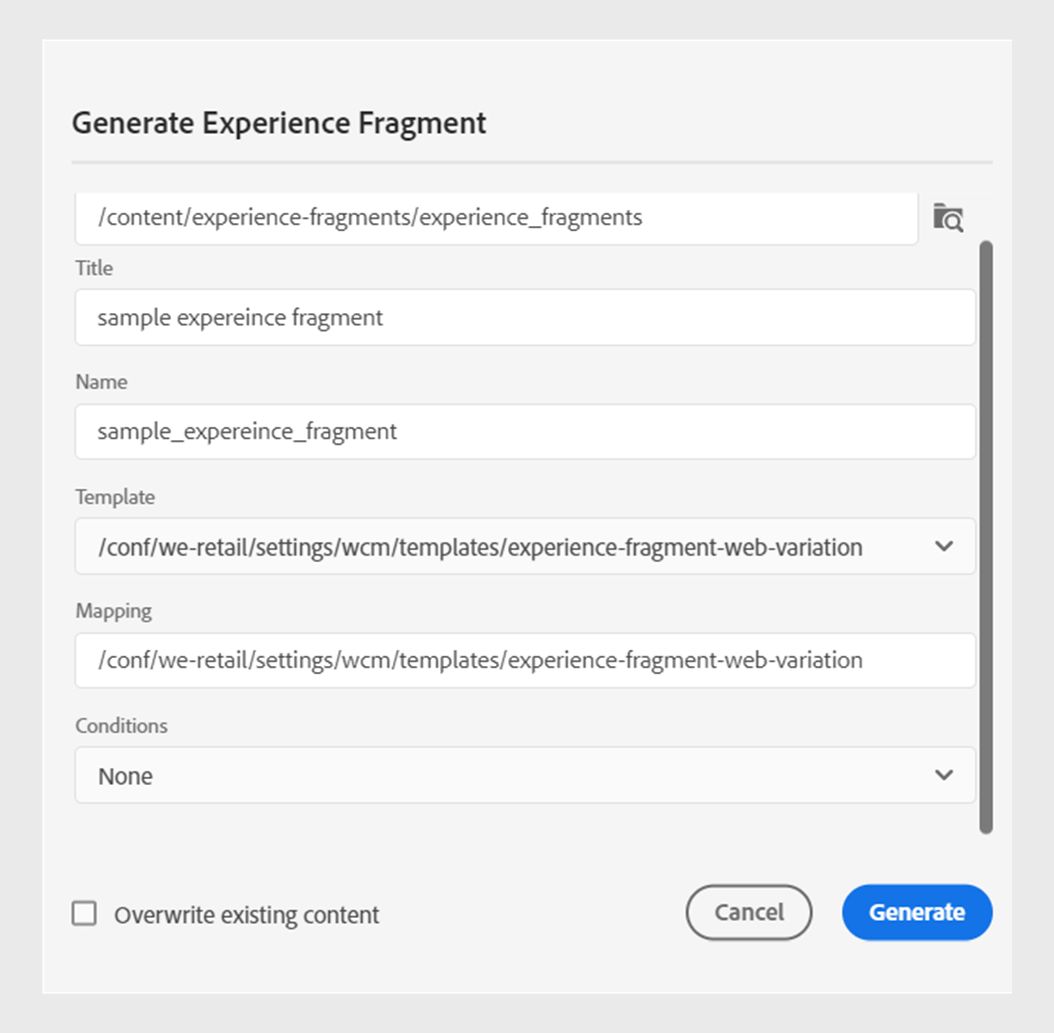
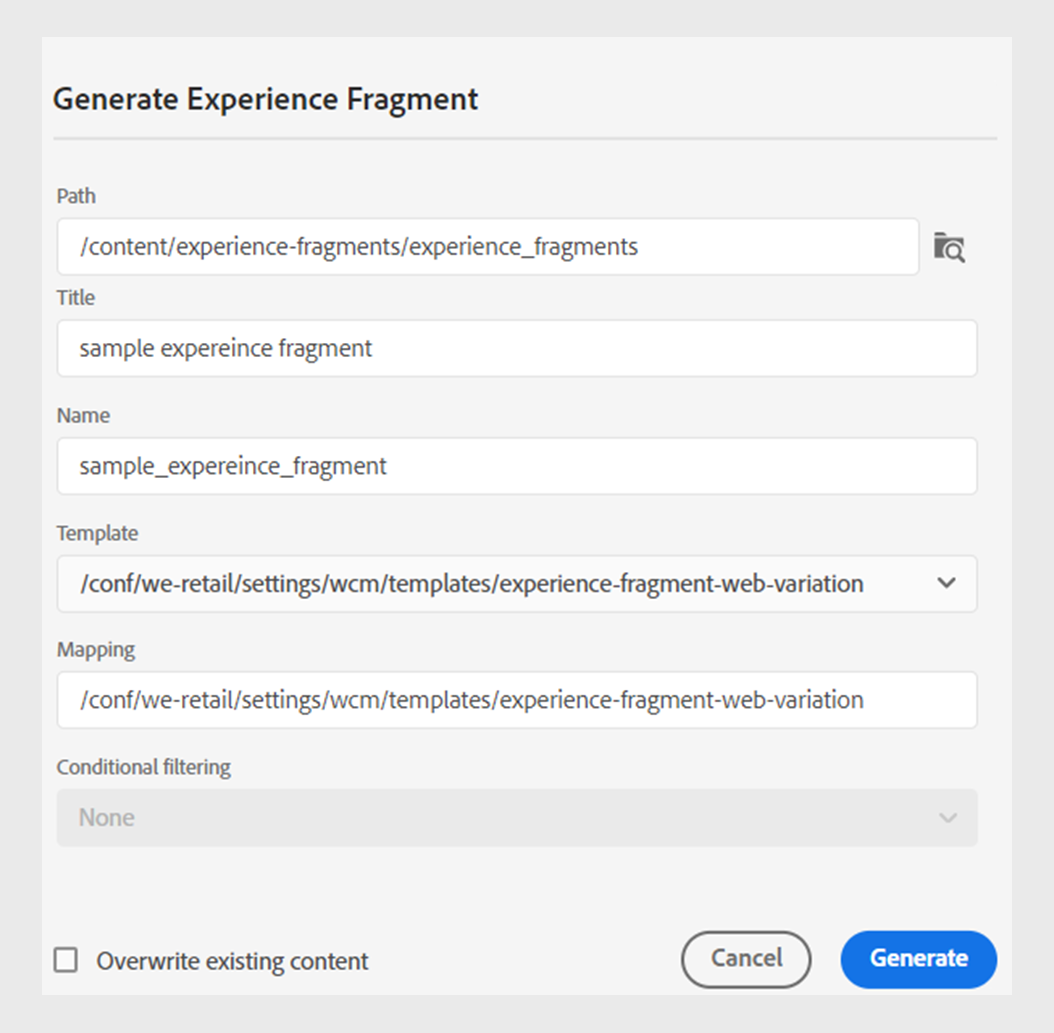
2406 updates

diff --git a/help/product-guide/user-guide/publish-experience-fragment.md b/help/product-guide/user-guide/publish-experience-fragment.md
@@ -5,11 +5,11 @@ feature: Publishing
 role: User
 ---
 
-# Publish to an Experience Fragment
+# Publish an Experience Fragment
 
-Experience Fragments are pieces of modular content in Adobe Experience Manager. These content blocks are based on templates and encapsulate both content and its layout. These reusable pieces of content allow content creators to assemble and deliver consistent, scalable experiences across multiple channels that Experience Manager supports. This feature helps you easily create consistent marketing experiences efficiently, such as newsletters, promotion banners, and customer testimonials.  
+Experience Fragments are pieces of modular content in Adobe Experience Manager. These content blocks are based on templates and encapsulate both the content and its layout. These reusable pieces of content allow content creators to assemble and deliver consistent, scalable experiences across multiple channels that Experience Manager supports. This feature helps you easily create consistent marketing experiences efficiently, such as newsletters, promotion banners, and customer testimonials.  
 
-Experience Manager Guides allow you to publish a topic or its elements to an Experience Fragment. You can create a JSON-based mapping between a topic and components in an Experience Fragment. Then, use the mapping to publish a topic or its elements to an Experience Fragment. You can then use Experience Fragments in any Experience Manager site or extract the details via APIs supported by Experience Fragments.
+Experience Manager Guides allow you to publish a topic or its elements to an Experience Fragment. You can create a JSON-based mapping between a topic and its elements in an Experience Fragment. Then, use the mapping to publish a topic or its elements to an Experience Fragment. You can then use Experience Fragments in any Experience Manager Site or extract the details via APIs supported by Experience Fragments.
 
 
 
@@ -32,34 +32,46 @@ To generate an Experience Fragment, perform the following steps:
     * **Orderable**: Allows you to change the order of the assets inside a folder.
     ![add cloud configuration details in the folder properties](images/experience-fragment-folder-properties.png){width="650" align="left"}
        *Add the cloud configuration in the folder properties to connect it with the fragment templates.* 
-1. In the **Repository View**, select the topic that you want to publish as an Experience Fragment. . 
-1. From the **Options** menu, select **Publish As** > **Experience Fragment**.  
+1. To generate an Experience Fragment, select **New Output** ![new output icon](./images/Add_icon.svg) from the **Outputs** section in the **File Properties** of a topic.
+1. Select **Experience Fragment**.  
+    ![file properties options tab](./images/file-properties-outputs-tab.png){width="300" align="left"}
+
+    *Add a new Experience Fragment from the File Properties of a topic*.
+
+    > [!NOTE]
+    >
+    > You can also publish an Experience  Fragment from the **Repository View**. Select the topic that you want to publish as an Experience Fragment. And then, from the **Options** menu, select **Publish As** > **Experience Fragment**.
+
 1. In the **Generate Experience Fragment** dialog box, fill in the following details:
         ![Add the fragment model and mapping details in the Publish as Experience Fragment dialog](images/experience-fragment-generate.png){width="500" align="left"}
         
     *Add the path, template, and mapping details to publish a topic or its elements as an Experience Fragment. You can overwrite an existing Experience Fragment.*  
 
     * **Path**: Browse and select the path of the folder where you want to publish the Experience Fragment. You can also select an existing Experience Fragment and republish it.
-    * **Title**: Tyoe the title of the Experience Fragment.
-    * **Name**: Type the name of the Experience Fragment. By default, the name is created from the title, and the spaces are replaced with '_'. For example, *sample_expereince_fragment*. 
+    * **Title**: Type the title of the Experience Fragment. By default, the title is populated with the title of the topic. You can edit it. This title is used to generate the name of the Experience Fragment.
+    * **Name**: Type the name of the Experience Fragment. By default, the name is populated with the title of the topic, and the spaces are replaced with '_'. For example, *sample_expereince_fragment*. You can edit it. This name is used to generate the URL for the Experience Fragment.
     * **Template**: Select the Experience Fragment template that you want to use to create your Experience Fragment. The templates are picked from the folder that you have configured in the properties. 
     * **Mapping**: It picks the mapping from the *experienceFragmentMapping.json* file and displays it.  
 
       
 
-        Your administrator can add the mappings in the *experienceFragmentMapping.json* file.  Learn more about how to [create a mapping between a topic and an Experience Fragment](../cs-install-guide/conf-experience-fragment-mapping-cs.md) in the  Installation and Configuration Guide.
+        Your administrator can add the mappings in the *experienceFragmentMapping.json* file.  Learn more about how to [create a mapping between a topic and an Experience Fragment](../cs-install-guide/conf-experience-fragment-mapping-cs.md) in the Installation and Configuration Guide.
 
     * You can also select different conditions to publish the content.  Select one of the following options:
 
+        >[!NOTE] 
+        > 
+        >Conditions are enabled only if condition attributes are defined in the topic.
+        
         * **None**: Select this option if you don’t want to apply any condition on the published output.
-        * **DITAVAL**: Select DITAVAL file(s) to generate personalized content. You can select the DITAVAL file using the browse dialog or by typing the file path. 
-        * **Condtion attributes**: You can define condition attributes in your DITA topics. Then, select the condition attribute in the condition preset to publish the relevant content.
+        * **Using DITAVAL**: Select DITAVAL file(s) to generate personalized content. You can select the DITAVAL file using the browse dialog or by typing the file path. 
+        * **Using attributes**: You can define condition attributes in your DITA topics. Then, select the condition attribute in the condition preset to publish the relevant content.
 
         To know more about condition presets, view [Use condition presets](generate-output-use-condition-presets.md).
         
     * Select the **Overwrite existing content** checkbox if your Experience Fragment already exists and you wish to overwrite it. Experience Manager Guides displays an error if you don’t select the checkbox and your Experience Fragment already exists. 
 1. Click **Generate** to publish the Experience Fragment.
-1. You can view the Experience Fragments for a topic under the **Outputs** section in the **File Properties**. The Experience Fragments appear according to the date and time of their publishing. 
+1. You can view the Experience Fragments for a topic under the **Outputs** section in the **File Properties**. The Experience Fragments appear according to the date and time of their publishing, with the latest as the first. 
  
     ![View the Experience Fragments for a topic](images/experience-fragment-outputs.png){width=300 align="left"}
        
@@ -79,8 +91,8 @@ You can also perform the following actions for an Experience Fragment from the *
 
 * **Duplicate**: Duplicate an Experience Fragment. You can change the path, name, title, and the template. You can also select different conditions when you duplicate an Experience Fragment.
 
-* **Remove**: Remove an Experience Fragment from the outputs list. A confirmation prompt appears. Once you confirm, the Experience Fragment is removed from the **Outputs** list. 
+* **Remove**: Remove an Experience Fragment from the outputs list. A confirmation prompt appears. Once you confirm, the Experience Fragment is removed from the **Outputs** list. But the Experience Fragment is not deleted from the folder.
 
-* **View**: View the Experience Fragment in an editor. You can also make changes and save them.
+* **View**: View the Experience Fragment editor. You can also make changes and save them.
 
  

diff --git a/help/product-guide/user-guide/publish-content-fragment.md b/help/product-guide/user-guide/publish-content-fragment.md
@@ -5,7 +5,7 @@ exl-id: b1769e48-d721-4e93-b10f-04b385272be7
 feature: Publishing
 role: User
 ---
-# Publish to a Content Fragment
+# Publish a Content Fragment
 
 Content Fragments are discrete pieces of content in Adobe Experience Manager. They are structured content based on a content model. Content Fragments are pure content without design or layout information. They can be authored and managed independently of the channels that Adobe experience Manager supports. Content Fragments are modular, where content is broken down into smaller components.
 
@@ -20,35 +20,47 @@ To create a Content Fragment, perform the following steps:
 For example, add `/conf/we-retail` in the cloud configuration. This configuration connects all the Content Fragment models with the folder.       
  ![add cloud configuration details in the folder properties](images/fragment-folder-cloud-configuration.png){width="650" align="left"}
        *Add the cloud configuration in the folder properties to connect it with the fragment models.* 
-1. Select the topic that you want to publish in the **Repository View**. 
-1. From the **Options** menu, select **Publish As** > **Content Fragment**.  
-1. In the **Publish As Content Fragment** dialog, fill in the following details:
+
+1. To generate a Content Fragment, select **New Output** ![new output icon](./images/Add_icon.svg) from the **Outputs** section in the **File Properties** of a topic.
+1. Select **Content Fragment**.  
+    ![file properties options tab](./images/file-properties-outputs-tab.png){width="300" align="left"}
+
+    *Add a new Content Fragment from the File Properties of a topic*.
+
+1. In the **Generate Content Fragment** dialog, fill in the following details:
         ![Add the fragment model and mapping details in the Publish as Content Fragment dialog](images/content-fragment-publish.png){width="500" align="left"}
        *Add the path, model, and mapping details to publish a topic or its elements as a Content Fragment. You can overwrite an existing Content Fragment.*  
 
-    * **Path**: Browse and select the path of the folder where you want to publish the Content Fragment. You can also select an existing Content Fragment and publish it.
-    * **Title**: Enter the title of the Content Fragment.
-    * **Name**: Enter the name of the Content Fragment.
+      > [!NOTE]
+    >
+    > You can also publish a  Content Fragment from the **Repository View**. Select the topic that you want to publish as a Content Fragment. And then, from the **Options** menu, select **Publish As** > **Content Fragment**.
+    * **Path**: Browse and select the path of the folder where you want to publish the Content Fragment. If you select an existing Content Fragment, it overwrites the contents of the mapped fields.
+    * **Title**: Type the title of the Content Fragment. By default, the title is populated with the title of the topic. You can edit it. This title is used to generate the name of the Content Fragment.
+    * **Name**: Type the name of the Content Fragment. By default, the name is populated with the title of the topic, and the spaces are replaced with '_'. For example, *sample_content_fragment*. You can edit it.  This name is used to generate the URL for the Content Fragment.
     * **Model**: Select the Content Fragment model that you want to use to create your Content Fragment. The models are picked from the folder, which you have configured in the cloud services. 
     * **Mapping**: Select a mapping from the drop-down. It picks the mappings from the *contentFragmentMapping.json* file.  
 
       
 
-        Your administrator can add the mappings in the *contentFragmentMapping.json* file. Learn more about how to [create a mapping between a topic and a Content Fragment](../cs-install-guide/conf-content-fragment-mapping-cs.md) in the  Installation and Configuration Guide. 
+        Your administrator can add the mappings in the *contentFragmentMapping.json* file. Learn more about how to [create a mapping between a topic and a Content Fragment](../cs-install-guide/conf-content-fragment-mapping-cs.md) in the Installation and Configuration Guide. 
 
     * You can also select different conditions to publish the content.  Select one of the following options:
 
+        >[!NOTE] 
+        > 
+        >Conditions are enabled only if condition attributes are defined in the topic.
+
         * **None**: Select this option if you don’t want to apply any condition on the published output.
-        * **DITAVAL**: Select DITAVAL file(s) to generate personalized content. You can select multiple DITAVAL files using the browse dialog or by typing the file path. 
-        * **Condition attributes**: You can define condition attributes in your DITA topics. Then, select the condition attribute in the condition preset to publish the relevant content.
+        * **Using DITAVAL**: Select DITAVAL file(s) to generate output, which includes specific content. You can select multiple DITAVAL files using the browse dialog or by typing the file path. 
+        * **Using attributes**: You can define condition attributes in your DITA topics. Then, select the condition attribute in the condition preset to publish the relevant content.
     
         To know more about condition presets, view [Use condition presets](generate-output-use-condition-presets.md).
 
        
     * Select **Overwrite existing content** if your Content Fragment already exists and you wish to overwrite it. Experience Manager Guides displays an error if you don’t select the checkbox and your Content Fragment already exists. 
-1. Click **Create** to publish the Content Fragment.
+1. Click **Generate** to publish the Content Fragment.
 
-1. You can view the Content Fragments  for a topic under the **Outputs** section in the **File Properties**.
+1. You can view the Content Fragments for a topic under the **Outputs** section in the **File Properties**.
  
     ![View the Content Fragments for a topic](images/outputs-options-menu.png){width="300" align="left"}
        
@@ -64,12 +76,16 @@ Once you’ve published the Content Fragments, you can also use them in any Adob
 
 You can also perform the following actions for a Content Fragment from the **Options** menu:
 
-* **Generate**: Republish the Content Fragment to update it with the latest content from the DITA topic. When you regenerate the output, you cannot change the path, name, title, and template of the Content Fragment. However, you can select different conditions while regenerating the output.
+* **Generate**: Republish the Content Fragment to update it with the latest content from the DITA topic. When you regenerate the output, you cannot change the path, name, title, model, and mapping of the Content Fragment. However, you can select different conditions while regenerating the output.
 
-* **Duplicate**: Duplicate a Content Fragment. You can change the path, name, title, and the template. You can also select different conditions when you duplicate a Content Fragment.
+* **Duplicate**: Duplicate a Content Fragment. You can change the path, name, title, model, and the mapping. You can also select different conditions when you duplicate a Content Fragment.
 
 * **Remove**: Remove a Content Fragment from the outputs list. A confirmation prompt appears. Once you confirm, the Content Fragment is removed from the **Outputs** list. 
 
-* **View**: View the Content Fragment in an editor. You can also make changes and save them.
+    >[!NOTE]
+    >
+    > No content is deleted from the Content Fragment by this action.
+
+* **View**: View the Content Fragment editor. You can also make changes and save them.
 
  
